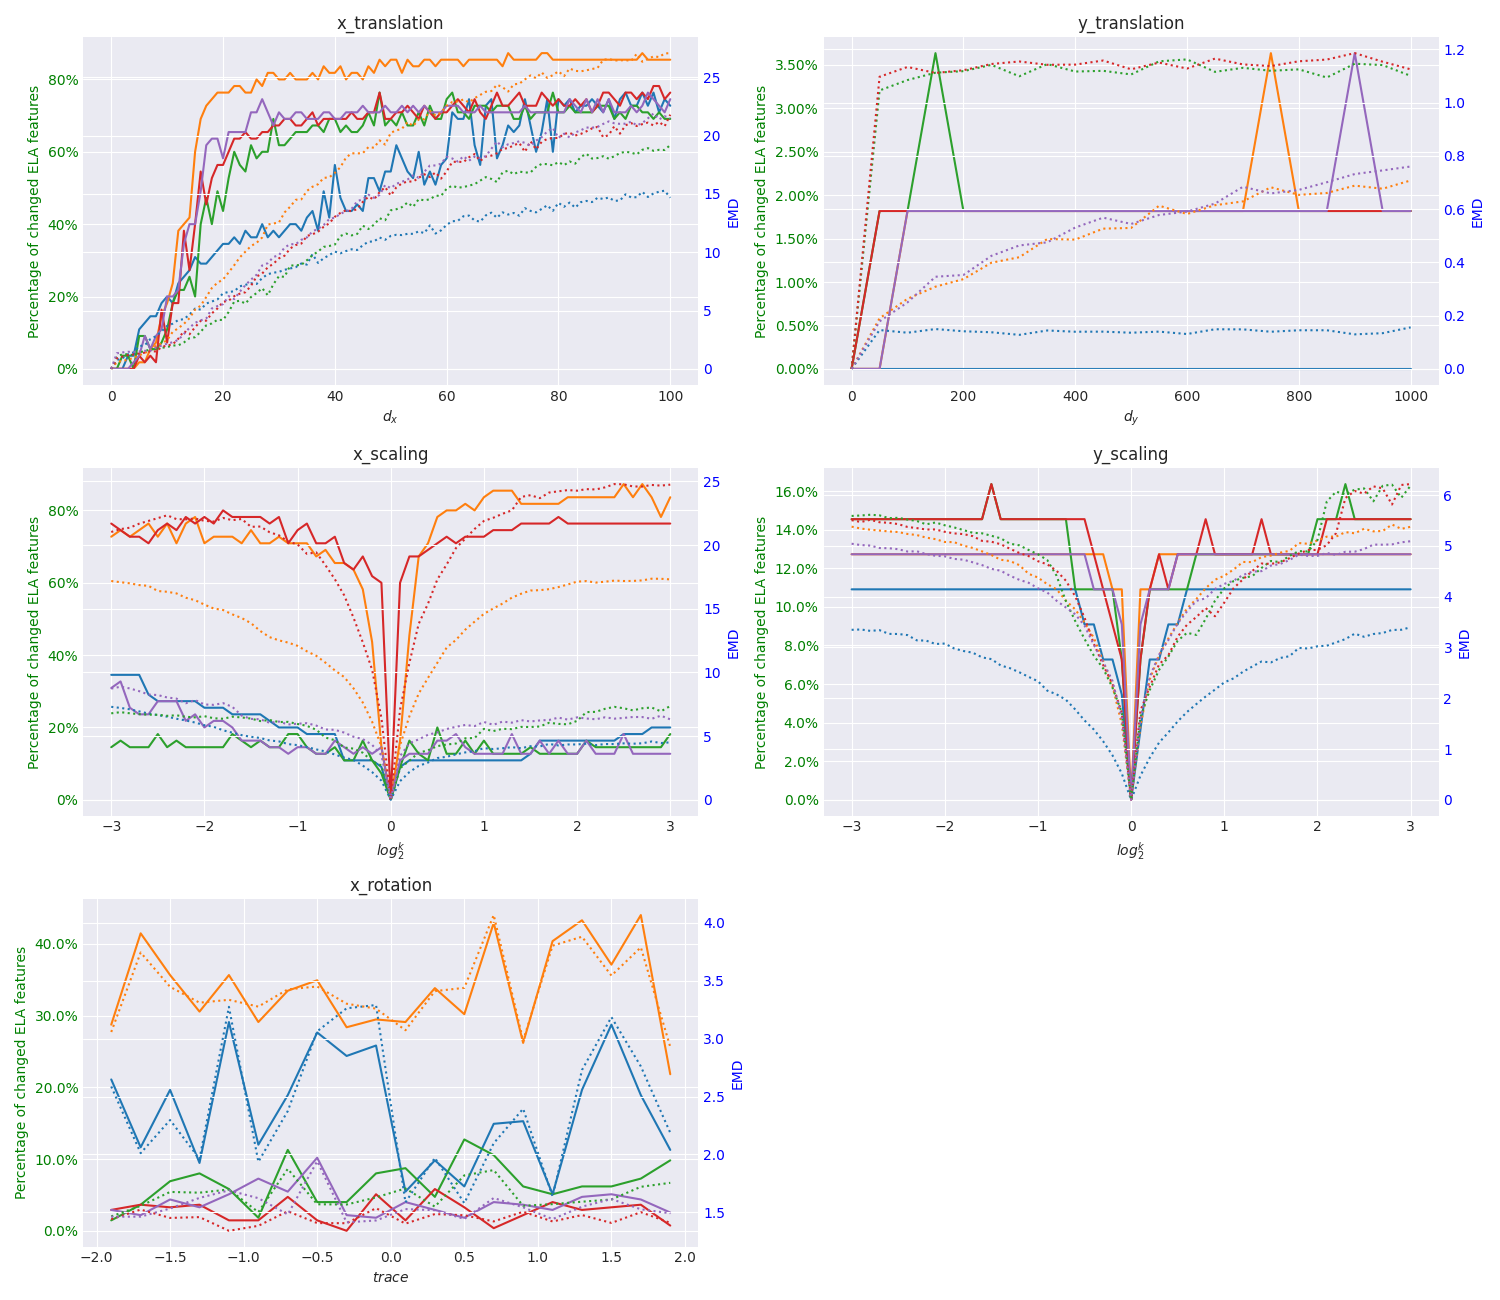
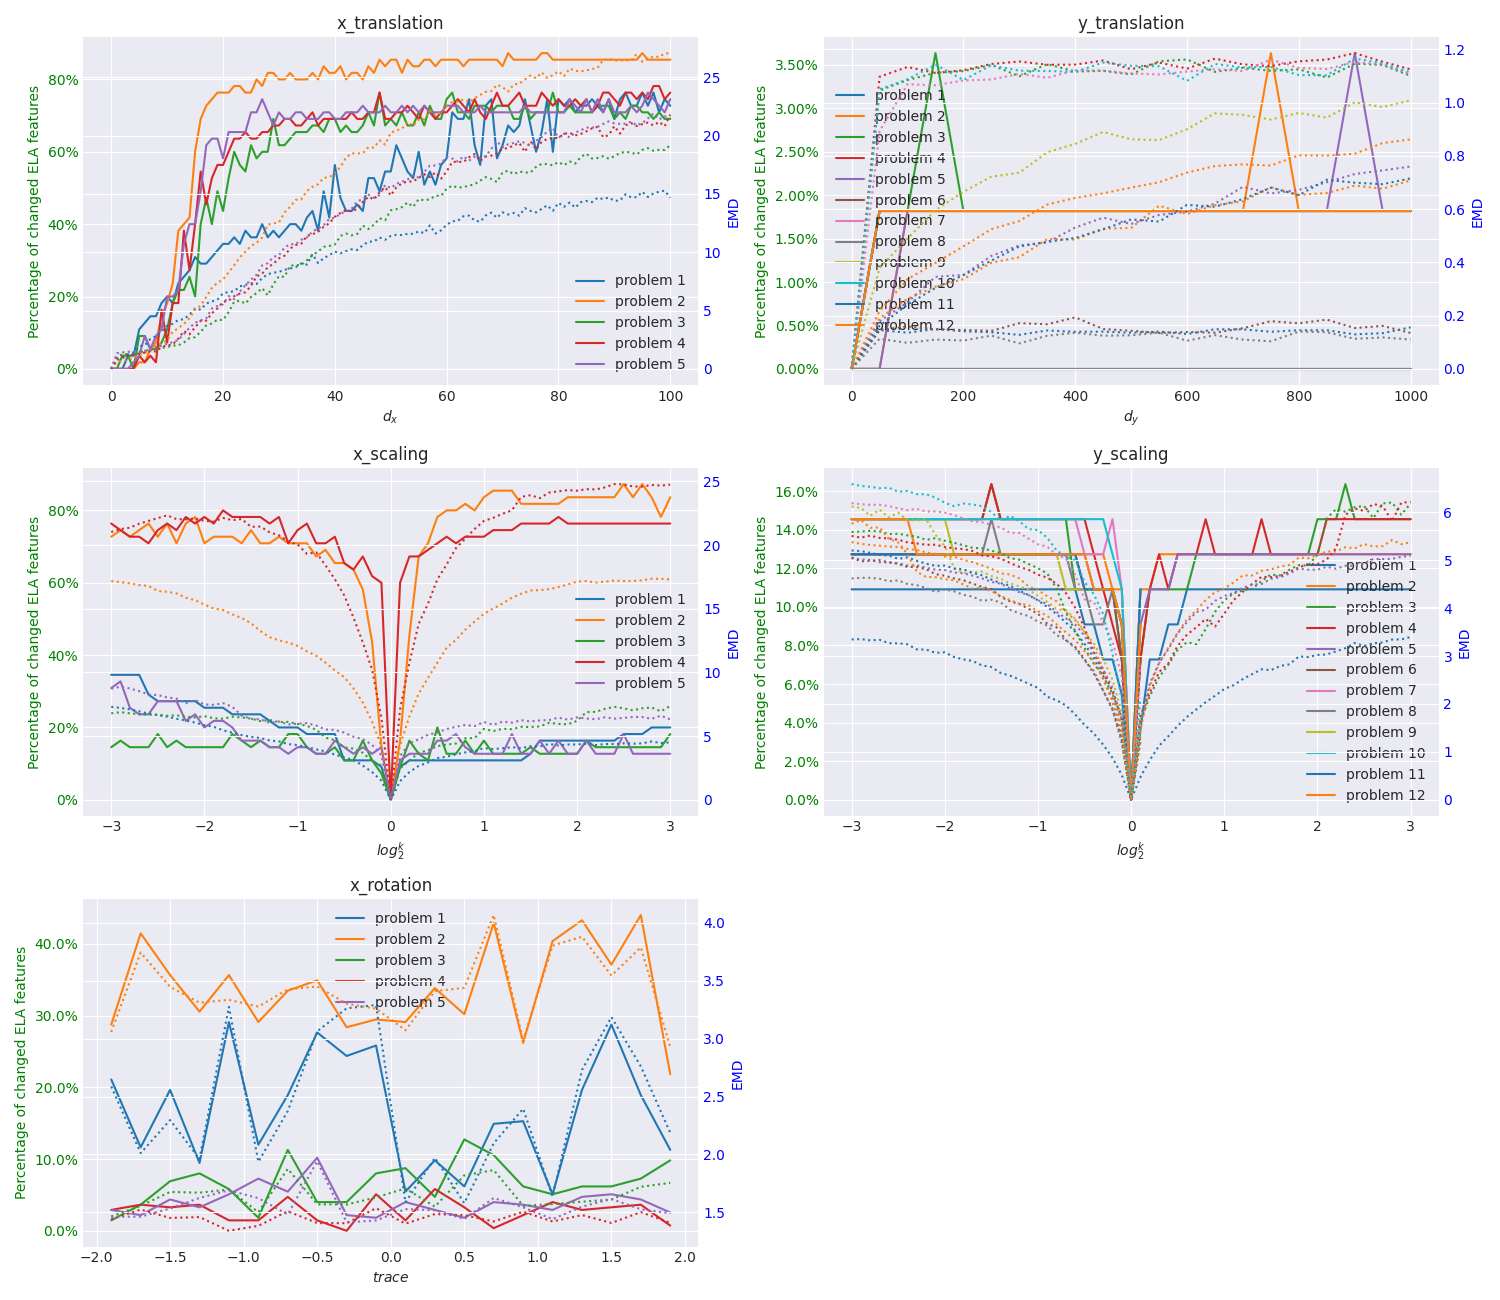
mroe problems experiment

diff --git a/scripts/origin_ela.py b/scripts/origin_ela.py
@@ -1,0 +1,109 @@
+import os
+import re
+import time
+import warnings
+import numpy as np
+import pandas as pd
+
+from pflacco.classical_ela_features import calculate_dispersion
+from pflacco.classical_ela_features import calculate_ela_distribution
+from pflacco.classical_ela_features import calculate_ela_level
+from pflacco.classical_ela_features import calculate_ela_meta
+from pflacco.classical_ela_features import calculate_information_content
+from pflacco.classical_ela_features import calculate_nbc
+from pflacco.classical_ela_features import calculate_pca
+
+warnings.filterwarnings("ignore")
+
+
+def read_x(num_sampling, num_x):
+    X = []
+    m = num_x+1
+    # f = open("/data/s3202844/data/samplingX.txt", "r")
+    # f = open("/data/s3202844/data/samplingX_002D.txt", "r")
+    f = open("config/samplingX_010D.txt", "r")
+    lines = f.readlines()
+    f.close()
+    for i in range(num_sampling):
+        x = []
+        content = lines[m*i:m*i+m]
+        for j in range(1, m):
+            temp = []
+            line = re.split(r"[ ]+", content[j][:-1])
+            for n in line[1:]:
+                temp += [float(n)]
+            x += [temp]
+        X += [x]
+    return X
+
+
+def read_y(path, num_sampling, num_x):
+    Y = []
+    f = open(path, "r")
+    lines = f.readlines()
+    f.close()
+    for i in range(num_sampling):
+        y = []
+        line = lines[i][:-1].split(" ")
+        for j in range(num_x):
+            y += [float(line[j])]
+        Y += [y]
+    return Y
+
+
+def ela_calculation(X, y):
+    keys = []
+    values = []
+
+    disp = calculate_dispersion(X, y)
+    keys += list(disp.keys())[:-1]
+    values += list(disp.values())[:-1]
+    ela_distr = calculate_ela_distribution(X, y)
+    keys += list(ela_distr.keys())[:-1]
+    values += list(ela_distr.values())[:-1]
+    ela_level = calculate_ela_level(X, y)
+    keys += list(ela_level.keys())[:-1]
+    values += list(ela_level.values())[:-1]
+    ela_meta = calculate_ela_meta(X, y)
+    keys += list(ela_meta.keys())[:-1]
+    values += list(ela_meta.values())[:-1]
+    ic = calculate_information_content(X, y)
+    keys += list(ic.keys())[:-1]
+    values += list(ic.values())[:-1]
+    nbc = calculate_nbc(X, y)
+    keys += list(nbc.keys())[:-1]
+    values += list(nbc.values())[:-1]
+    pca = calculate_pca(X, y)
+    keys += list(pca.keys())[:-1]
+    values += list(pca.values())[:-1]
+
+    return keys, values
+
+
+if __name__ == "__main__":
+    # meta data
+    num_sampling = 100
+    num_x = 1000
+    dim = 10
+    # read experiments results
+    X = np.array(read_x(num_sampling, num_x))
+    # x scaling
+    if not os.path.exists("ecta2024_data/origin/ela/"):
+        os.makedirs("ecta2024_data/origin/ela/")
+    prefix_name = ["problem_id", "log_2^k"]
+    for problem_id in range(6, 13):
+        start_time = time.time()
+        records = []
+        prefix = [problem_id, 0.0]
+        file_path = f"ecta2024_data/origin/{problem_id}_0.000000.txt"
+        print(file_path)
+        y = read_y(file_path, num_sampling, num_x)
+        for j in range(num_sampling):
+            keys, values = ela_calculation(X[j], y[j])
+            records += [prefix + values]
+        column_name = prefix_name + keys
+        end_time = time.time()
+        dataset_df = pd.DataFrame(records, columns=column_name)
+        dataset_df.to_csv(f"ecta2024_data/origin/ela/{problem_id}_0.0.csv",
+                          index=False)
+        print(f"origin calculation time: {end_time - start_time}")

diff --git a/scripts/plot_ks_emd.py b/scripts/plot_ks_emd.py
@@ -25,7 +25,9 @@ def lineplot(transformation, indicator, ax1, conn):
     sql_query = f"SELECT * FROM {transformation}_emd"
     df_emd = pd.read_sql_query(sql_query, conn)
     ax2 = ax1.twinx()
-    for problem_id in range(1, 6):
+    for problem_id in range(1, 13):
+        if problem_id > 5 and transformation not in ["y_translation", "y_scaling",]:
+            continue
         selected_pvalue = df_ks_pvalue[df_ks_pvalue["problem_id"]
                                        == problem_id].values
         columns_to_check = selected_pvalue[:, 2:]
@@ -57,14 +59,22 @@ def lineplot(transformation, indicator, ax1, conn):
     ax2.set_ylabel("EMD", color='b')
     ax2.tick_params(axis='y', labelcolor='b')
     ax1.set_title(f"{transformation}")
+    ax1.legend()
 
 
 if __name__ == "__main__":
     if not os.path.exists("results/aggregation/"):
         os.mkdir("results/aggregation/")
-    transformations = ["x_translation", "y_translation",
-                       "x_scaling", "y_scaling", "x_rotation",]
-    indicator = ["d_x", "d_y", "log_2^k", "log_2^k", "trace",]
+    transformations = ["x_translation",
+                       "y_translation",
+                       "x_scaling",
+                       "y_scaling",
+                       "x_rotation",]
+    indicator = ["d_x",
+                 "d_y",
+                 "log_2^k",
+                 "log_2^k",
+                 "trace",]
     conn = sqlite3.connect("ecta2024_data/atom_data.db")
     plt.style.use("seaborn-v0_8-darkgrid")
     fig, axs = plt.subplots(3, 2, figsize=(15, 13))

diff --git a/scripts/analysis.py b/scripts/analysis.py
@@ -48,9 +48,20 @@ def transformation_analysis(conn, transformation, indicator):
 
 
 if __name__ == "__main__":
-    transformations = ["x_rotation", "x_scaling", "x_translation",
-                       "y_scaling", "y_translation"]
-    indicators = ["trace", "log_2^k", "d_x", "log_2^k", "d_y"]
+    transformations = [
+        # "x_rotation",
+        # "x_scaling",
+        # "x_translation",
+           "y_scaling",
+        "y_translation"
+    ]
+    indicators = [
+        # "trace",
+        # "log_2^k",
+        # "d_x",
+          "log_2^k",
+        "d_y"
+    ]
     conn = sqlite3.connect("ecta2024_data/atom_data.db")
     for i in range(len(transformations)):
         transformation = transformations[i]

diff --git a/scripts/ela_calculation.py b/scripts/ela_calculation.py
@@ -199,6 +199,9 @@ if __name__ == "__main__":
         prefix_name = ["problem_id", "log_2^k"]
         k = -3.0
         while k < 3.1:
+            if f"{k:.1f}" == "0.0":
+                k += 0.1
+                continue
             start_time = time.time()
             records = []
             prefix = [problem_id, k]

diff --git a/scripts/doe2vec_calculation.py b/scripts/doe2vec_calculation.py
@@ -24,7 +24,8 @@ def read_x(num_sampling, num_x):
     return np.array(X)
 
 x = read_x(100, 1000)
-x = x[0]
+x = x[0][:100, :]
+print(x.shape)
 obj = doe_model(10, 1, n=1000000, latent_dim=32, custom_sample=x,
                 model_type="VAE", kl_weight=0.001, use_mlflow=False)
 if not obj.loadModel("../models"):
